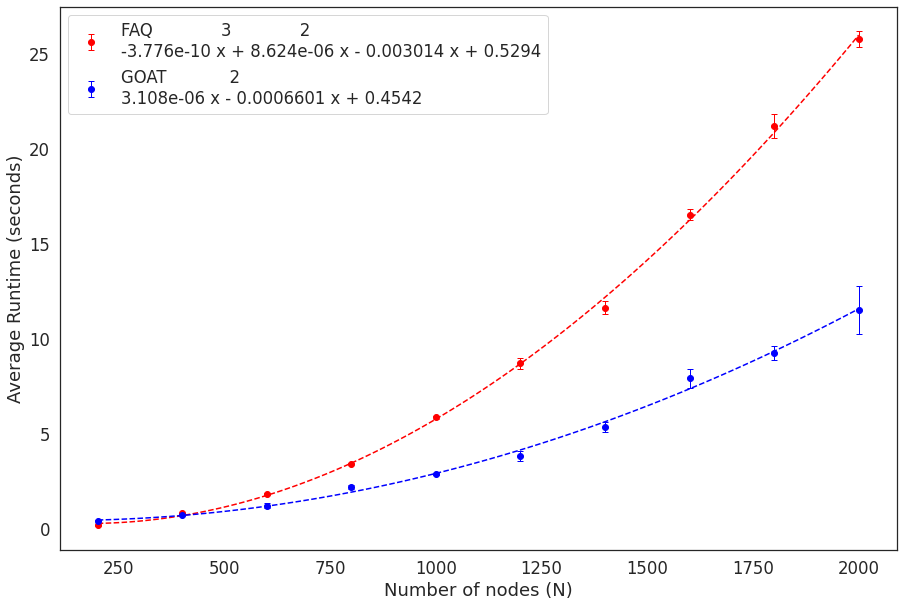
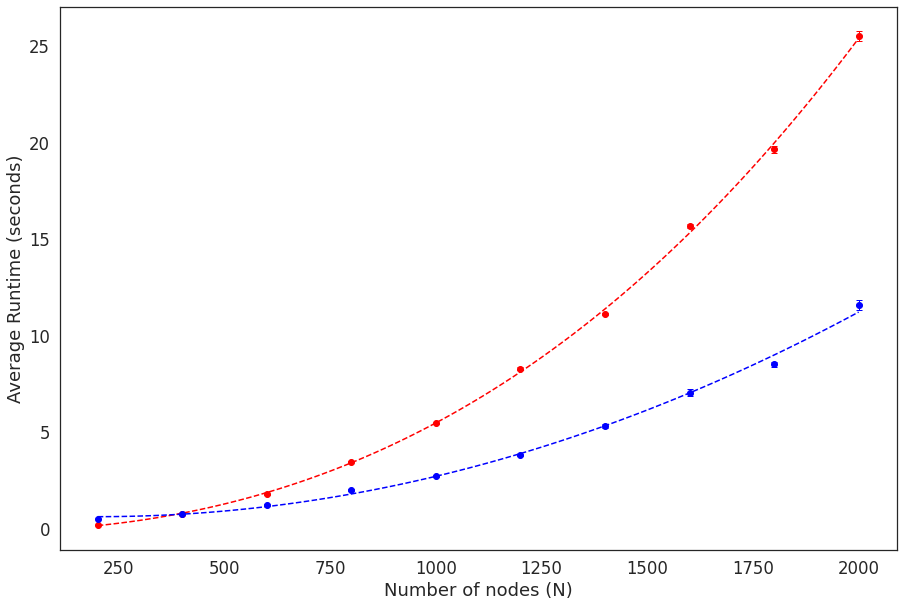
deploy: 520069cb683f14e3dbd621901e61ab7ffbe53740

diff --git a/searchindex.js b/searchindex.js
@@ -1,1 +1,1 @@
-Search.setIndex({docnames:["ALPN","elegans","er_time","expos_fig","human_connectome","landing","lap_vs_ot","outline","qaplib_figs","rho_sbm","sgm"],envversion:{"sphinx.domains.c":2,"sphinx.domains.changeset":1,"sphinx.domains.citation":1,"sphinx.domains.cpp":3,"sphinx.domains.index":1,"sphinx.domains.javascript":2,"sphinx.domains.math":2,"sphinx.domains.python":2,"sphinx.domains.rst":2,"sphinx.domains.std":2,"sphinx.ext.intersphinx":1,sphinx:56},filenames:["ALPN.ipynb","elegans.ipynb","er_time.ipynb","expos_fig.ipynb","human_connectome.ipynb","landing.md","lap_vs_ot.ipynb","outline.md","qaplib_figs.ipynb","rho_sbm.ipynb","sgm.ipynb"],objects:{},objnames:{},objtypes:{},terms:{"000001":9,"001":3,"002":3,"00799999999998":3,"042":1,"083554444008":0,"088688":1,"098":9,"09836065573770492":8,"0x7f3578971860":8,"0x7f3578ab5f98":8,"0x7f50faf1bf98":2,"0x7f6370490a20":6,"0x7f8d546fb198":2,"0x7fd827c990b8":9,"0x7fd827f905c0":9,"0x7fdaacec2ba8":9,"100":[0,1,2,3,6,10],"1000":[0,3,6,8],"10192":8,"10440":8,"1102992505":[3,8],"11156":8,"11566":8,"118":8,"11808":8,"11936":8,"12458":8,"12850":8,"13072":8,"14840":8,"150":[1,6],"16284":8,"163":1,"172":3,"1818146":8,"1829456":8,"1837196":8,"1869814":8,"1874428":8,"190":9,"19604":8,"1e8":[9,10],"200":[2,4,6],"2000":2,"2021":1,"212":9,"224416":8,"228":1,"2298":8,"235528":8,"2422002":8,"2431498":8,"243392":8,"244672":8,"245168":8,"2456214":8,"2460940":8,"2498962":8,"250":6,"2598":8,"267":1,"275":1,"2760":8,"281":1,"285":1,"289":1,"292":8,"300":[0,1,4,10],"3000":6,"3139370":8,"314":8,"3166816":8,"3176428":8,"3177518":8,"319672131147541":8,"320":8,"3225948":8,"3250":6,"3310":8,"3359":8,"3360655737704918":8,"336414141535":0,"3422":8,"3442622950819672":8,"354":1,"354210":8,"355":1,"356654":8,"369342":8,"370696":8,"388214":8,"388250":8,"391426":8,"397376":8,"400":[3,4,6],"402248":8,"413488":1,"433":8,"4344262295081967":8,"449849":1,"454419":1,"466202":1,"4672131147540984":8,"4674251068145":0,"469003":1,"484":8,"4848059607737111":8,"491812":8,"493662":8,"49493420416688194":8,"496330":8,"498":3,"499528":8,"500":1,"516644":8,"528169":1,"557":8,"586854":1,"591549":1,"600":4,"603":1,"608":8,"6162":0,"6194":8,"6198":0,"6207":0,"6227":0,"6235":0,"624":8,"624413":1,"657277":1,"6888":8,"700":[1,8],"703482":8,"705622":8,"708198":8,"7228":8,"725522":8,"730240":8,"731134":8,"734276":8,"739120":8,"743884":8,"746404":8,"7482":8,"800":4,"852163812509":0,"8582":8,"867158":1,"8888":[9,10],"901828036416":0,"9504":8,"9896":8,"998":3,"break":[1,3,8],"function":[0,6,8,9,10],"import":[0,1,2,3,4,6,8,9,10],"int":[0,2,6,8,9,10],"new":7,"return":[0,1,3,6,8,9,10],"true":[0,1,2,4,8,9,10],For:[4,9],The:[1,4,5,10],_doubly_stochast:[3,8],abov:[1,7],abs:[0,3,6,8],acc_sgm:2,acc_sgml:2,access:7,accuraci:[0,6,8],across:8,adapt:[3,8],add_diag_proport:0,addit:7,adjac:4,against:4,alap:[3,6],algorithm:[3,8],all:[3,8,9],allow_pickl:8,along:7,alpha:8,alpn_crossmatch:0,alreadi:10,also:[0,3],ani:9,annot:0,anoth:3,anyth:0,append:1,approx:9,approxim:3,arang:[1,2,4,6,9,10],around:[3,10],arrai:[3,4,9,10],assign:3,associ:9,astyp:[0,6,8,10],autoreload:[0,2,4,8,9,10],averag:[2,3,6,9,10],average_1:9,average_2:9,average_3:9,average_5:9,average_7:9,average_ss:9,averga:9,axessubplot:0,axi:[2,3,6,8,9],barycent:9,basic:7,bbox_to_anchor:10,been:1,below:9,better:[3,8],between:8,bigger:7,binari:9,black:8,block:9,block_memb:[9,10],block_prob:[9,10],blue:[2,6,8,9],book:5,border:5,borderaxespad:10,bright:9,btaba:[3,8],bur26:8,bur26a:8,bur26b:8,bur26c:8,bur26d:8,bur26f:8,bur26g:8,bur26h:8,can:7,capsiz:[2,6,8,9,10],cbar_kw:0,cell_nam:1,center:0,check:[3,8],check_random_st:[6,8,10],chemic:1,choic:10,chr12a:8,chr12b:8,chr12c:8,chr15a:8,chr15b:8,chr15c:8,chr18a:8,chr18b:8,chr20a:8,chr20b:8,chr20c:8,chr22a:8,chr22b:8,chr25a:8,close:3,cmap:0,col:[0,3],col_ind:[0,1,2,4,9,10],collaps:9,color:[2,6,8,9],color_palett:9,column:[0,3,8],column_stack:10,com:[3,8],combin:7,compar:[1,8],complet:1,compon:1,comput:9,compute_match_ratio:1,condit:9,conf_mat:0,confus:0,confusion_matrix:0,confusionplot:0,connect:1,connectom:5,consid:3,contain:9,convex:7,correct:0,correct_ind:1,correl:[9,10],correspond:9,cost:[3,6],count_nonzero:9,csv:0,currtim:1,dash:[6,8],data:[0,2,7,8],datafil:8,datafram:[0,1,8],dataset1_id:0,dataset1_intra:0,dataset1_intra_pad:0,dataset1_meta:0,dataset1_to_dataset2:0,dataset1_vmax:0,dataset2_id:0,dataset2_intra:0,dataset2_intra_match:0,dataset2_meta:0,dataset2_meta_match:0,dataset2_to_dataset1:0,dataset2_vmax:0,dataset:0,datetim:1,decim:3,def:[0,1,3,6,8,9,10],defin:[6,8],delai:[8,9,10],delimit:4,delta:[1,9],denot:9,depux:4,diagon:4,dict:[0,1],differ:[6,7,8],differenct:10,direct:[9,10],displai:8,distanc:9,distribut:6,dot:6,doubli:3,drawn:5,drosophila:5,each:[3,6,9],elaps:1,elinewidth:[2,6,8,9,10],els19:8,els:[3,6],entri:4,enumer:[2,4,6,9],eps:0,er_np:2,erdo:2,error2:10,error:[9,10],error_1:9,error_2:9,error_3:9,error_5:9,error_7:9,error_ss:9,errorbar:[2,6,8,9,10],esc128:8,esc16:8,esc16a:8,esc16b:8,esc16c:8,esc16d:8,esc16g:8,esc16h:8,esc16i:8,esc16j:8,esc32:8,esc32g:8,euclid:[3,8],evalu:9,even:7,everi:[3,8],everytim:4,exist:3,exp:3,expositori:7,extens:10,eye:3,fafb:0,fals:[0,1,3,6,8,9,10],faq:[4,7,9],feasibl:3,few:5,fig:1,figsiz:[0,1,2,4,6,8,9,10],figur:[2,4,9],file:4,fillna:0,first:4,fit:0,fmt:[0,2,6,8,10],foldernam:1,follow:3,font_scal:[2,6,8,9,10],fontsiz:0,foral:3,frac:3,from:[0,1,2,3,6,7,9,10],fun:[0,1,8,9],g_1:9,g_2:9,gallardo:4,gamma:9,gen_result:0,gener:[5,9],get:3,github:[3,8],give:7,gm_:9,gm_bari:8,gm_ot:8,gm_pdiff:8,gm_pdiffb:8,gm_rand:8,gm_ratio:4,gm_score:8,gmot:[7,8],gmot_bari:8,gmot_pdiff:8,gmot_pdiffb:8,gmot_rand:8,gmot_ratio:4,gmot_scor:8,gmp:[0,1,2,4,8,9,10],goat:[1,2,8],goat_opt:1,gradient:7,graph:7,graphmatch:[0,9],graspi:9,graspolog:[0,2,4,8,9,10],grei:8,hack:0,had12:8,had14:8,had16:8,had18:8,had20:8,have:[1,9],hcp_data:4,head:1,header:[0,4],heatmap:0,here:1,herm_adj:1,hermaphrodit:1,hide:[2,4,8,9],higher:7,highest:9,hline:[6,8],hollow:[4,9],hopefulli:7,host:5,howev:3,http:[3,4,8],hue:1,ignor:0,iinfo:[8,10],iloc:0,implement:[3,8],increas:7,ind:[1,9],index:0,index_col:0,individu:3,initi:8,inplac:0,insert:[0,2,4,8,9,10],instanc:3,int32:[8,10],intersect:1,intiti:8,ipython:8,isfil:[4,8],item:9,itself:4,joblib:[8,9,10],join:[4,8],jupyt:5,kei:[0,8],kind:7,kinda:7,knopp:[3,8],kra30a:8,kra30b:8,kra32:8,kwarg:[0,1],label:[0,2,6,8,9,10],labels1:0,labels2:0,lamb:[0,3,6],lambda:[0,3,8],larg:0,largest:1,larval:5,layout:5,ldot:9,left:10,legend:[2,6,8,9,10],len:[0,1,2,4,6,8,9,10],let:9,lightspe:[3,9],like:7,linalg:0,line:7,linear:[0,3],linear_sum_assign:[0,3,6,9],linestyl:[6,8],linspac:[2,6],lipa20a:8,lipa20b:8,lipa30a:8,lipa30b:8,lipa40a:8,lipa40b:8,lipa50a:8,lipa50b:8,lipa60a:8,lipa60b:8,lipa70a:8,lipa70b:8,lipa80a:8,lipa90a:8,lipa90b:8,list:[0,10],listdir:[4,8],load:[8,10],load_c_elegan:1,load_ext:[0,2,4,8,9,10],loc:[0,10],log10:8,log:[2,6,8],logofv:8,loop:[9,10],lower:7,maggot:[5,7],male:1,male_adj:1,mannwhitneyu:8,margin:9,marker:[2,4,6,9],markeredgewidth:[2,6,8,9,10],mask:0,mat:8,match:[2,7,9,10],match_ratio:[1,9,10],mathcal:3,matplotlib:[0,1,2,4,6,8,9,10],matric:[3,7,9],matrix:[3,4,6],max:[0,3,6,8,10],max_it:[0,3,8],maxim:[0,1,2,3,4,6,8,9,10],maxit:[0,1,2,4,8,9,10],mayb:7,mean:[1,2,4,6,9,10],median:8,meta:0,meta_path:0,method:[1,3],metric:[0,9],min:[6,8],minim:3,minimum:8,model:2,multipl:3,n_1:9,n_2:9,n_3:9,n_block:[9,10],n_init:[0,1,8],n_job:[8,9,10],n_p:9,n_per_block:[9,10],n_qap:8,n_realiz:10,name:[1,3],nblast_path:0,nblast_scor:0,need:7,network:5,neuron:5,nit:1,node:[1,2,4,6,9,10],nomin:7,none:[0,1,3,4,8,9],norm:0,normal:0,notebook:5,now:1,npz:8,nug12:8,nug14:8,nug16a:8,nug16b:8,nug17:8,nug18:8,nug20:8,nug21:8,nug22:8,nug24:8,nug25:8,nug27:8,nug28:8,nug30:8,number:[6,7,10],numitermax:[0,6],numpi:[0,1,2,3,4,6,8,9,10],object:[0,3,6,8,9],objfunc:7,often:[3,8],ofv:8,ofv_:[6,8],on_diag:0,one:[7,8],ones:[0,6],onli:[3,8],oofv:3,opt:8,optim:[0,1,3,6,8,9],option:[0,1,2,4,8,9,10],orang:8,org:[3,8],origin:7,osf:4,other:3,out:[7,10],over:[2,6,8,9],p_1:3,p_2:3,p_ep:[3,6,8],pad:0,pairplot:7,pairwise_dist:9,panda:[0,1,4,8],paper:[5,6],parallel:[8,9,10],parcel:4,partial_match:10,path:[0,2,4,8,9,10],pdiff:6,per:[2,6],percent:8,perform:[1,3,8],perm:[9,10],perm_ind:0,perm_inds_:0,perm_ss:9,permut:[3,4,7,9],pgm:2,pgml:2,pjm:[3,8],pkg:[0,1,2,4,8,9,10],plap:6,plot:[2,4,6,8,9,10],plt:[0,1,2,4,6,8,9,10],point:3,poly1d:[2,6],polyfit:[2,6],possibl:3,poster:[2,4,9,10],pot:6,power:[0,3,6],print:[0,1,3,8],print_out:1,prior:1,problem:[3,7,8],projecteuclid:[3,8],pvalu:8,pyplot:[0,1,2,4,6,8,9,10],qap:8,qap_prob:8,qap_sol:8,qaplib:7,qapprob:8,quadratic_assign:[0,1,2,4,8,9,10],quadratic_assignment_ot:[0,1,2,4,8,9,10],ran:4,rand:8,randint:[8,9,10],random:[4,6,9,10],rang:[0,1,2,3,6,8,9,10],rank:9,ranksum:8,ratio:[2,4,7,9,10],ratio_1:9,ratio_2:9,ratio_3:9,ratio_5:9,ratio_7:9,ratio_ss:9,ratios2:10,ratios_1:9,ratios_2:9,ratios_3:9,ratios_5:9,ratios_7:9,ratios_ss:9,rdbu_r:0,read_csv:[0,4],real:7,realiz:9,record:9,recov:4,red:[2,6,8,9],reduc:1,reg:[0,1,2,3,4,6,8,10],region:3,regular:9,rel:[6,8],relax:3,reload:10,reload_ext:10,render:5,rep:[6,8],replac:10,replic:9,repres:[6,7],represent:3,res:[0,1,2,6,8,9,10],res_1:9,res_2:9,res_3:9,res_4:9,res_5:9,res_opt:9,res_opt_ss:9,res_ss:9,reshap:[6,8],resot:4,result:[8,9],reyni:2,rho:[2,7],rng:[2,8,10],rou12:8,rou15:8,rou20:8,round:3,row:[0,1,3,8],run:[6,9],run_qap:9,run_sim:[9,10],same:[1,3,7,8],sampl:[2,4,6,9,10],savefig:1,sbm:[7,10],sbm_corr:[9,10],scatter:[6,8],scatterplot:1,scipi:[0,1,2,3,6,8,9,10],score:9,score_1:9,score_2:9,score_3:9,score_5:9,score_7:9,score_lap:6,score_ot:6,score_ss:9,scores_faq:8,scores_faq_r:8,scores_goat:8,scores_goat_r:8,scores_ss:9,scr12:8,scr15:8,scr20:8,script:1,seaborn:[0,1,2,4,6,8,9,10],second:[1,2,6],see:4,seed:[7,9],sem:[2,6,8,9,10],seri:5,set:[0,1,2,3,4,6,7,8,9,10],set_context:[1,2,4,6,8,9,10],set_index:0,set_styl:[2,6,8,9,10],set_them:[2,4,8,9],set_titl:0,sgm:7,shape:[4,8],share:1,show:7,shrink:0,shuffle_input:[0,1,2,4,8,9,10],sim:[0,9],simpl:7,simul:[2,6,7,10],singl:6,sinkh:2,sinkhorn:[0,3,6,8,9],sinkhorn_knopp:[3,8],sinkhown:7,size:[4,7,8,9,10],skeleton:5,sklearn:[0,6,8,9,10],sko100:8,sko100a:8,sko100b:8,sko100c:8,sko100d:8,sko100f:8,sko42:8,sko49:8,sko56:8,sko64:8,sko72:8,sko81:8,sko90:8,slnfile:8,small:7,sns:[0,1,2,4,6,8,9,10],softsgm:7,solut:[3,7],solv:3,solver:7,some:7,somehow:7,sort:10,sourc:0,specif:9,speed:[3,8],squar:0,start:[2,6],stashfig:1,stat:[2,6,8,9,10],ste36b:8,ste36c:8,step:9,stochast:3,stopinnerthr:[0,6],str:10,studi:5,style:8,subplot:[0,1],sum:[0,3,6,8],symmetr:9,sys:[0,2,4,8,9,10],tai100a:8,tai100b:8,tai12a:8,tai12b:8,tai150b:8,tai15a:8,tai15b:8,tai17a:8,tai20a:8,tai20b:8,tai256c:8,tai25a:8,tai25b:8,tai30a:8,tai30b:8,tai35a:8,tai40a:8,tai40b:8,tai50a:8,tai50b:8,tai60a:8,tai60b:8,tai64c:8,tai80a:8,talk:1,term:[0,9],text:[4,6,8,9,10],than:7,thei:1,therefor:3,thi:[3,5,7],tho150:8,tho30:8,tho40:8,thr:[4,8,9,10],three:3,threshold:[3,8],ties:7,tile:6,time:[1,2,6,7,9],timedelta:1,times_lap:6,times_ot:6,times_sgm:2,times_sgml:2,titl:[0,2,8,9,10],todo:0,tol:[0,1,2,3,4,6,8,9,10],took:1,trace:[0,3,6],transport:3,trivial:3,two:3,txt:9,unclear:0,uniform:6,uniformli:9,uniqu:0,unique_label:0,unk:0,unknown:0,upper:10,use:[0,10],uses:9,using:[5,8],usual:1,util:[3,6,8,10],valu:[0,3,4,7,8,10],value_count:0,vanilla:1,vanilla_opt:1,vec:9,veri:7,vertex:7,vertic:[7,8],via:0,vmax:0,wai:7,websit:5,where:[3,9],white:[2,6,8,9,10],why:7,wil100:8,wil50:8,wilcoxon:8,wish:3,within:[3,8],would:3,xlabel:[0,2,4,6,8,9,10],xticklabel:0,yellow:8,yield:3,ylabel:[0,2,4,6,8,9,10],yticklabel:0,zero:[0,2,4,6,8,9,10]},titles:["Recreate pedigo, GM no prior, barycenter init, matching just intra","Matching the C. elegans connectomes","GMOT runtime as function of number of vertices","Expository Demonstration","Matching Human Connectome Data","Welcome","LAP VS LOT runtime and performance figure","Outline","QAPLIB Figures","rho-Simulated SBM, n=150,1500","SGM figure 2"],titleterms:{"100":[8,9],"150":9,"1500":9,"200":9,"300":9,"500":9,"700":9,"case":10,"function":2,"while":10,For:10,abov:8,alongsid:8,augment:0,barycent:[0,8],benchmark:8,better:0,caption:[2,6,8,9,10],code:7,connect:0,connectom:[1,4],converg:10,data:[1,4],demonstr:3,differ:9,elegan:1,end:1,experi:[1,9],expositori:3,faq:[2,8],faster:10,fig:[4,8],figur:[6,7,8,10],frigo:4,from:[4,8],gmot:2,goat:[0,9,10],graph:1,hemispher:0,human:4,info:0,init:[0,8],instanc:10,inter:0,intra:0,just:0,lap:6,load:1,lot:6,make:0,match:[0,1,4],matrix:0,mean:8,more:2,much:10,multipl:8,nine:10,number:2,observ:10,outlin:7,panel:7,paper:8,pedigo:0,per:8,perform:[2,6],plot:1,prior:0,qaplib:8,random:8,recreat:[0,4,8],reg:9,rep:2,requir:10,result:1,rho:[9,10],run:[1,2],runtim:[2,6],sbm:9,seed:10,sgm:10,shown:10,shuffl:8,sim:2,similar:0,simul:9,still:0,summari:9,tabl:8,than:10,two:10,using:0,valu:9,varianc:8,vertic:2,welcom:5,worst:10}})
+Search.setIndex({docnames:["ALPN","elegans","er_time","expos_fig","human_connectome","landing","lap_vs_ot","outline","qaplib_figs","rho_sbm","sgm"],envversion:{"sphinx.domains.c":2,"sphinx.domains.changeset":1,"sphinx.domains.citation":1,"sphinx.domains.cpp":3,"sphinx.domains.index":1,"sphinx.domains.javascript":2,"sphinx.domains.math":2,"sphinx.domains.python":2,"sphinx.domains.rst":2,"sphinx.domains.std":2,"sphinx.ext.intersphinx":1,sphinx:56},filenames:["ALPN.ipynb","elegans.ipynb","er_time.ipynb","expos_fig.ipynb","human_connectome.ipynb","landing.md","lap_vs_ot.ipynb","outline.md","qaplib_figs.ipynb","rho_sbm.ipynb","sgm.ipynb"],objects:{},objnames:{},objtypes:{},terms:{"000001":9,"001":3,"002":3,"00799999999998":3,"042":1,"083554444008":0,"088688":1,"098":9,"09836065573770492":8,"0x7f3578971860":8,"0x7f3578ab5f98":8,"0x7f50faf1bf98":2,"0x7f6370490a20":6,"0x7fd827c990b8":9,"0x7fd827f905c0":9,"0x7fdaacec2ba8":9,"100":[0,1,2,3,6,10],"1000":[0,3,6,8],"10192":8,"10440":8,"1102992505":[3,8],"11156":8,"11566":8,"118":8,"11808":8,"11936":8,"12458":8,"12850":8,"13072":8,"14840":8,"150":[1,6],"16284":8,"163":1,"172":3,"1818146":8,"1829456":8,"1837196":8,"1869814":8,"1874428":8,"190":9,"19604":8,"1e8":[9,10],"200":[2,4,6],"2000":2,"2021":1,"212":9,"224416":8,"228":1,"2298":8,"235528":8,"2422002":8,"2431498":8,"243392":8,"244672":8,"245168":8,"2456214":8,"2460940":8,"2498962":8,"250":6,"2598":8,"267":1,"275":1,"2760":8,"281":1,"285":1,"289":1,"292":8,"300":[0,1,4,10],"3000":6,"3139370":8,"314":8,"3166816":8,"3176428":8,"3177518":8,"319672131147541":8,"320":8,"3225948":8,"3250":6,"3310":8,"3359":8,"3360655737704918":8,"336414141535":0,"3422":8,"3442622950819672":8,"354":1,"354210":8,"355":1,"356654":8,"369342":8,"370696":8,"388214":8,"388250":8,"391426":8,"397376":8,"400":[3,4,6],"402248":8,"413488":1,"433":8,"4344262295081967":8,"449849":1,"454419":1,"466202":1,"4672131147540984":8,"4674251068145":0,"469003":1,"484":8,"4848059607737111":8,"491812":8,"493662":8,"49493420416688194":8,"496330":8,"498":3,"499528":8,"500":1,"516644":8,"528169":1,"557":8,"586854":1,"591549":1,"600":4,"603":1,"608":8,"6162":0,"6194":8,"6198":0,"6207":0,"6227":0,"6235":0,"624":8,"624413":1,"657277":1,"6888":8,"700":[1,8],"703482":8,"705622":8,"708198":8,"7228":8,"725522":8,"730240":8,"731134":8,"734276":8,"739120":8,"743884":8,"746404":8,"7482":8,"800":4,"852163812509":0,"8582":8,"867158":1,"8888":[9,10],"901828036416":0,"9504":8,"9896":8,"998":3,"break":[1,3,8],"function":[0,6,8,9,10],"import":[0,1,2,3,4,6,8,9,10],"int":[0,2,6,8,9,10],"new":7,"return":[0,1,3,6,8,9,10],"true":[0,1,2,4,8,9,10],For:[4,9],The:[1,4,5,10],_doubly_stochast:[3,8],abov:[1,7],abs:[0,3,6,8],acc_sgm:2,acc_sgml:2,access:7,accuraci:[0,6,8],across:8,adapt:[3,8],add_diag_proport:0,addit:7,adjac:4,against:4,alap:[3,6],algorithm:[3,8],all:[3,8,9],allow_pickl:8,along:7,alpha:8,alpn_crossmatch:0,alreadi:10,also:[0,3],ani:9,annot:0,anoth:3,anyth:0,append:1,approx:9,approxim:3,arang:[1,2,4,6,9,10],around:[3,10],arrai:[3,4,9,10],assign:3,associ:9,astyp:[0,6,8,10],autoreload:[0,2,4,8,9,10],averag:[2,3,6,9,10],average_1:9,average_2:9,average_3:9,average_5:9,average_7:9,average_ss:9,averga:9,axessubplot:0,axi:[2,3,6,8,9],barycent:9,basic:7,bbox_to_anchor:10,been:1,below:9,better:[3,8],between:8,bigger:7,binari:9,black:8,block:9,block_memb:[9,10],block_prob:[9,10],blue:[2,6,8,9],book:5,border:5,borderaxespad:10,bright:9,btaba:[3,8],bur26:8,bur26a:8,bur26b:8,bur26c:8,bur26d:8,bur26f:8,bur26g:8,bur26h:8,can:7,capsiz:[2,6,8,9,10],cbar_kw:0,cell_nam:1,center:0,check:[3,8],check_random_st:[6,8,10],chemic:1,choic:10,chr12a:8,chr12b:8,chr12c:8,chr15a:8,chr15b:8,chr15c:8,chr18a:8,chr18b:8,chr20a:8,chr20b:8,chr20c:8,chr22a:8,chr22b:8,chr25a:8,close:3,cmap:0,col:[0,3],col_ind:[0,1,2,4,9,10],collaps:9,color:[2,6,8,9],color_palett:9,column:[0,3,8],column_stack:10,com:[3,8],combin:7,compar:[1,8],complet:1,compon:1,comput:9,compute_match_ratio:1,condit:9,conf_mat:0,confus:0,confusion_matrix:0,confusionplot:0,connect:1,connectom:5,consid:3,contain:9,convex:7,correct:0,correct_ind:1,correl:[9,10],correspond:9,cost:[3,6],count_nonzero:9,csv:0,currtim:1,dash:[6,8],data:[0,2,7,8],datafil:8,datafram:[0,1,8],dataset1_id:0,dataset1_intra:0,dataset1_intra_pad:0,dataset1_meta:0,dataset1_to_dataset2:0,dataset1_vmax:0,dataset2_id:0,dataset2_intra:0,dataset2_intra_match:0,dataset2_meta:0,dataset2_meta_match:0,dataset2_to_dataset1:0,dataset2_vmax:0,dataset:0,datetim:1,decim:3,def:[0,1,3,6,8,9,10],defin:[6,8],delai:[8,9,10],delimit:4,delta:[1,9],denot:9,depux:4,diagon:4,dict:[0,1],differ:[6,7,8],differenct:10,direct:[9,10],displai:8,distanc:9,distribut:6,dot:6,doubli:3,drawn:5,drosophila:5,each:[3,6,9],elaps:1,elinewidth:[2,6,8,9,10],els19:8,els:[3,6],entri:4,enumer:[2,4,6,9],eps:0,er_np:2,erdo:2,error2:10,error:[9,10],error_1:9,error_2:9,error_3:9,error_5:9,error_7:9,error_ss:9,errorbar:[2,6,8,9,10],esc128:8,esc16:8,esc16a:8,esc16b:8,esc16c:8,esc16d:8,esc16g:8,esc16h:8,esc16i:8,esc16j:8,esc32:8,esc32g:8,euclid:[3,8],evalu:9,even:7,everi:[3,8],everytim:4,exist:3,exp:3,expositori:7,extens:10,eye:3,fafb:0,fals:[0,1,3,6,8,9,10],faq:[4,7,9],feasibl:3,few:5,fig:1,figsiz:[0,1,2,4,6,8,9,10],figur:[2,4,9],file:4,fillna:0,first:4,fit:0,fmt:[0,2,6,8,10],foldernam:1,follow:3,font_scal:[2,6,8,9,10],fontsiz:0,foral:3,frac:3,from:[0,1,2,3,6,7,9,10],fun:[0,1,8,9],g_1:9,g_2:9,gallardo:4,gamma:9,gen_result:0,gener:[5,9],get:3,github:[3,8],give:7,gm_:9,gm_bari:8,gm_ot:8,gm_pdiff:8,gm_pdiffb:8,gm_rand:8,gm_ratio:4,gm_score:8,gmot:[7,8],gmot_bari:8,gmot_pdiff:8,gmot_pdiffb:8,gmot_rand:8,gmot_ratio:4,gmot_scor:8,gmp:[0,1,2,4,8,9,10],goat:[1,2,8],goat_opt:1,gradient:7,graph:7,graphmatch:[0,9],graspi:9,graspolog:[0,2,4,8,9,10],grei:8,hack:0,had12:8,had14:8,had16:8,had18:8,had20:8,have:[1,9],hcp_data:4,head:1,header:[0,4],heatmap:0,here:1,herm_adj:1,hermaphrodit:1,hide:[2,4,8,9],higher:7,highest:9,hline:[6,8],hollow:[4,9],hopefulli:7,host:5,howev:3,http:[3,4,8],hue:1,ignor:0,iinfo:[8,10],iloc:0,implement:[3,8],increas:7,ind:[1,9],index:0,index_col:0,individu:3,initi:8,inplac:0,insert:[0,2,4,8,9,10],instanc:3,int32:[8,10],intersect:1,intiti:8,ipython:8,isfil:[4,8],item:9,itself:4,joblib:[8,9,10],join:[4,8],jupyt:5,kei:[0,8],kind:7,kinda:7,knopp:[3,8],kra30a:8,kra30b:8,kra32:8,kwarg:[0,1],label:[0,2,6,8,9,10],labels1:0,labels2:0,lamb:[0,3,6],lambda:[0,3,8],larg:0,largest:1,larval:5,layout:5,ldot:9,left:10,legend:[2,6,8,9,10],len:[0,1,2,4,6,8,9,10],let:9,lightspe:[3,9],like:7,linalg:0,line:7,linear:[0,3],linear_sum_assign:[0,3,6,9],linestyl:[6,8],linspac:[2,6],lipa20a:8,lipa20b:8,lipa30a:8,lipa30b:8,lipa40a:8,lipa40b:8,lipa50a:8,lipa50b:8,lipa60a:8,lipa60b:8,lipa70a:8,lipa70b:8,lipa80a:8,lipa90a:8,lipa90b:8,list:[0,10],listdir:[4,8],load:[8,10],load_c_elegan:1,load_ext:[0,2,4,8,9,10],loc:[0,10],log10:8,log:[2,6,8],logofv:8,loop:[9,10],lower:7,maggot:[5,7],male:1,male_adj:1,mannwhitneyu:8,margin:9,marker:[2,4,6,9],markeredgewidth:[2,6,8,9,10],mask:0,mat:8,match:[2,7,9,10],match_ratio:[1,9,10],mathcal:3,matplotlib:[0,1,2,4,6,8,9,10],matric:[3,7,9],matrix:[3,4,6],max:[0,3,6,8,10],max_it:[0,3,8],maxim:[0,1,2,3,4,6,8,9,10],maxit:[0,1,2,4,8,9,10],mayb:7,mean:[1,2,4,6,9,10],median:8,meta:0,meta_path:0,method:[1,3],metric:[0,9],min:[6,8],minim:3,minimum:8,model:2,multipl:3,n_1:9,n_2:9,n_3:9,n_block:[9,10],n_init:[0,1,8],n_job:[8,9,10],n_p:9,n_per_block:[9,10],n_qap:8,n_realiz:10,name:[1,3],nblast_path:0,nblast_scor:0,need:7,network:5,neuron:5,nit:1,node:[1,2,4,6,9,10],nomin:7,none:[0,1,3,4,8,9],norm:0,normal:0,notebook:5,now:1,npz:8,nug12:8,nug14:8,nug16a:8,nug16b:8,nug17:8,nug18:8,nug20:8,nug21:8,nug22:8,nug24:8,nug25:8,nug27:8,nug28:8,nug30:8,number:[6,7,10],numitermax:[0,6],numpi:[0,1,2,3,4,6,8,9,10],object:[0,3,6,8,9],objfunc:7,often:[3,8],ofv:8,ofv_:[6,8],on_diag:0,one:[7,8],ones:[0,6],onli:[3,8],oofv:3,opt:8,optim:[0,1,3,6,8,9],option:[0,1,2,4,8,9,10],orang:8,org:[3,8],origin:7,osf:4,other:3,out:[7,10],over:[2,6,8,9],p_1:3,p_2:3,p_ep:[3,6,8],pad:0,pairplot:7,pairwise_dist:9,panda:[0,1,4,8],paper:[5,6],parallel:[8,9,10],parcel:4,partial_match:10,path:[0,2,4,8,9,10],pdiff:6,per:[2,6],percent:8,perform:[1,3,8],perm:[9,10],perm_ind:0,perm_inds_:0,perm_ss:9,permut:[3,4,7,9],pgm:2,pgml:2,pjm:[3,8],pkg:[0,1,2,4,8,9,10],plap:6,plot:[2,4,6,8,9,10],plt:[0,1,2,4,6,8,9,10],point:3,poly1d:[2,6],polyfit:[2,6],possibl:3,poster:[2,4,9,10],pot:6,power:[0,3,6],print:[0,1,3,8],print_out:1,prior:1,problem:[3,7,8],projecteuclid:[3,8],pvalu:8,pyplot:[0,1,2,4,6,8,9,10],qap:8,qap_prob:8,qap_sol:8,qaplib:7,qapprob:8,quadratic_assign:[0,1,2,4,8,9,10],quadratic_assignment_ot:[0,1,2,4,8,9,10],ran:4,rand:8,randint:[8,9,10],random:[4,6,9,10],rang:[0,1,2,3,6,8,9,10],rank:9,ranksum:8,ratio:[2,4,7,9,10],ratio_1:9,ratio_2:9,ratio_3:9,ratio_5:9,ratio_7:9,ratio_ss:9,ratios2:10,ratios_1:9,ratios_2:9,ratios_3:9,ratios_5:9,ratios_7:9,ratios_ss:9,rdbu_r:0,read_csv:[0,4],real:7,realiz:9,record:9,recov:4,red:[2,6,8,9],reduc:1,reg:[0,1,2,3,4,6,8,10],region:3,regular:9,rel:[6,8],relax:3,reload:10,reload_ext:10,render:5,rep:[6,8],replac:10,replic:9,repres:[6,7],represent:3,res:[0,1,2,6,8,9,10],res_1:9,res_2:9,res_3:9,res_4:9,res_5:9,res_opt:9,res_opt_ss:9,res_ss:9,reshap:[6,8],resot:4,result:[8,9],reyni:2,rho:[2,7],rng:[2,8,10],rou12:8,rou15:8,rou20:8,round:3,row:[0,1,3,8],run:[6,9],run_qap:9,run_sim:[9,10],same:[1,3,7,8],sampl:[2,4,6,9,10],savefig:1,sbm:[7,10],sbm_corr:[9,10],scatter:[6,8],scatterplot:1,scipi:[0,1,2,3,6,8,9,10],score:9,score_1:9,score_2:9,score_3:9,score_5:9,score_7:9,score_lap:6,score_ot:6,score_ss:9,scores_faq:8,scores_faq_r:8,scores_goat:8,scores_goat_r:8,scores_ss:9,scr12:8,scr15:8,scr20:8,script:1,seaborn:[0,1,2,4,6,8,9,10],second:[1,2,6],see:4,seed:[7,9],sem:[2,6,8,9,10],seri:5,set:[0,1,2,3,4,6,7,8,9,10],set_context:[1,2,4,6,8,9,10],set_index:0,set_styl:[2,6,8,9,10],set_them:[2,4,8,9],set_titl:0,sgm:7,shape:[4,8],share:1,show:7,shrink:0,shuffle_input:[0,1,2,4,8,9,10],sim:[0,9],simpl:7,simul:[2,6,7,10],singl:6,sinkh:2,sinkhorn:[0,3,6,8,9],sinkhorn_knopp:[3,8],sinkhown:7,size:[4,7,8,9,10],skeleton:5,sklearn:[0,6,8,9,10],sko100:8,sko100a:8,sko100b:8,sko100c:8,sko100d:8,sko100f:8,sko42:8,sko49:8,sko56:8,sko64:8,sko72:8,sko81:8,sko90:8,slnfile:8,small:7,sns:[0,1,2,4,6,8,9,10],softsgm:7,solut:[3,7],solv:3,solver:7,some:7,somehow:7,sort:10,sourc:0,specif:9,speed:[3,8],squar:0,start:[2,6],stashfig:1,stat:[2,6,8,9,10],ste36b:8,ste36c:8,step:9,stochast:3,stopinnerthr:[0,6],str:10,studi:5,style:8,subplot:[0,1],sum:[0,3,6,8],symmetr:9,sys:[0,2,4,8,9,10],tai100a:8,tai100b:8,tai12a:8,tai12b:8,tai150b:8,tai15a:8,tai15b:8,tai17a:8,tai20a:8,tai20b:8,tai256c:8,tai25a:8,tai25b:8,tai30a:8,tai30b:8,tai35a:8,tai40a:8,tai40b:8,tai50a:8,tai50b:8,tai60a:8,tai60b:8,tai64c:8,tai80a:8,talk:1,term:[0,9],text:[2,4,6,8,9,10],than:7,thei:1,therefor:3,thi:[3,5,7],tho150:8,tho30:8,tho40:8,thr:[4,8,9,10],three:3,threshold:[3,8],ties:7,tile:6,time:[1,2,6,7,9],timedelta:1,times_lap:6,times_ot:6,times_sgm:2,times_sgml:2,titl:[0,2,8,9,10],todo:0,tol:[0,1,2,3,4,6,8,9,10],took:1,trace:[0,3,6],transport:3,trivial:3,two:3,txt:9,unclear:0,uniform:6,uniformli:9,uniqu:0,unique_label:0,unk:0,unknown:0,upper:10,use:[0,10],uses:9,using:[5,8],usual:1,util:[3,6,8,10],valu:[0,3,4,7,8,10],value_count:0,vanilla:1,vanilla_opt:1,vec:9,veri:7,vertex:7,vertic:[7,8],via:0,vmax:0,wai:7,websit:5,where:[3,9],white:[2,6,8,9,10],why:7,wil100:8,wil50:8,wilcoxon:8,wish:3,within:[3,8],would:3,xlabel:[0,2,4,6,8,9,10],xticklabel:0,yellow:8,yield:3,ylabel:[0,2,4,6,8,9,10],yticklabel:0,zero:[0,2,4,6,8,9,10]},titles:["Recreate pedigo, GM no prior, barycenter init, matching just intra","Matching the C. elegans connectomes","GMOT runtime as function of number of vertices","Expository Demonstration","Matching Human Connectome Data","Welcome","LAP VS LOT runtime and performance figure","Outline","QAPLIB Figures","rho-Simulated SBM, n=150,1500","SGM figure 2"],titleterms:{"100":[8,9],"150":9,"1500":9,"200":9,"300":9,"500":9,"700":9,"case":10,"function":2,"while":10,For:10,abov:8,alongsid:8,augment:0,barycent:[0,8],benchmark:8,better:0,caption:[2,6,8,9,10],code:7,connect:0,connectom:[1,4],converg:10,data:[1,4],demonstr:3,differ:9,elegan:1,end:1,experi:[1,9],expositori:3,faq:[2,8],faster:10,fig:[4,8],figur:[6,7,8,10],frigo:4,from:[4,8],gmot:2,goat:[0,9,10],graph:1,hemispher:0,human:4,info:0,init:[0,8],instanc:10,inter:0,intra:0,just:0,lap:6,load:1,lot:6,make:0,match:[0,1,4],matrix:0,mean:8,more:2,much:10,multipl:8,nine:10,number:2,observ:10,outlin:7,panel:7,paper:8,pedigo:0,per:8,perform:[2,6],plot:1,prior:0,qaplib:8,random:8,recreat:[0,4,8],reg:9,rep:2,requir:10,result:1,rho:[9,10],run:[1,2],runtim:[2,6],sbm:9,seed:10,sgm:10,shown:10,shuffl:8,sim:2,similar:0,simul:9,still:0,summari:9,tabl:8,than:10,two:10,using:0,valu:9,varianc:8,vertic:2,welcom:5,worst:10}})

diff --git a/er_time.html b/er_time.html
@@ -423,12 +423,11 @@
 <span class="n">plt</span><span class="o">.</span><span class="n">xlabel</span><span class="p">(</span><span class="s2">&quot;Number of nodes (N)&quot;</span><span class="p">)</span>
 
 <span class="n">plt</span><span class="o">.</span><span class="n">ylabel</span><span class="p">(</span><span class="s2">&quot;Average Runtime (seconds)&quot;</span><span class="p">)</span>
-<span class="n">plt</span><span class="o">.</span><span class="n">legend</span><span class="p">()</span>
 </pre></div>
 </div>
 </div>
 <div class="cell_output docutils container">
-<div class="output text_plain highlight-myst-ansi notranslate"><div class="highlight"><pre><span></span>&lt;matplotlib.legend.Legend at 0x7f8d546fb198&gt;
+<div class="output text_plain highlight-myst-ansi notranslate"><div class="highlight"><pre><span></span>Text(0, 0.5, &#39;Average Runtime (seconds)&#39;)
 </pre></div>
 </div>
 <img alt="_images/er_time_6_1.png" src="_images/er_time_6_1.png" />
